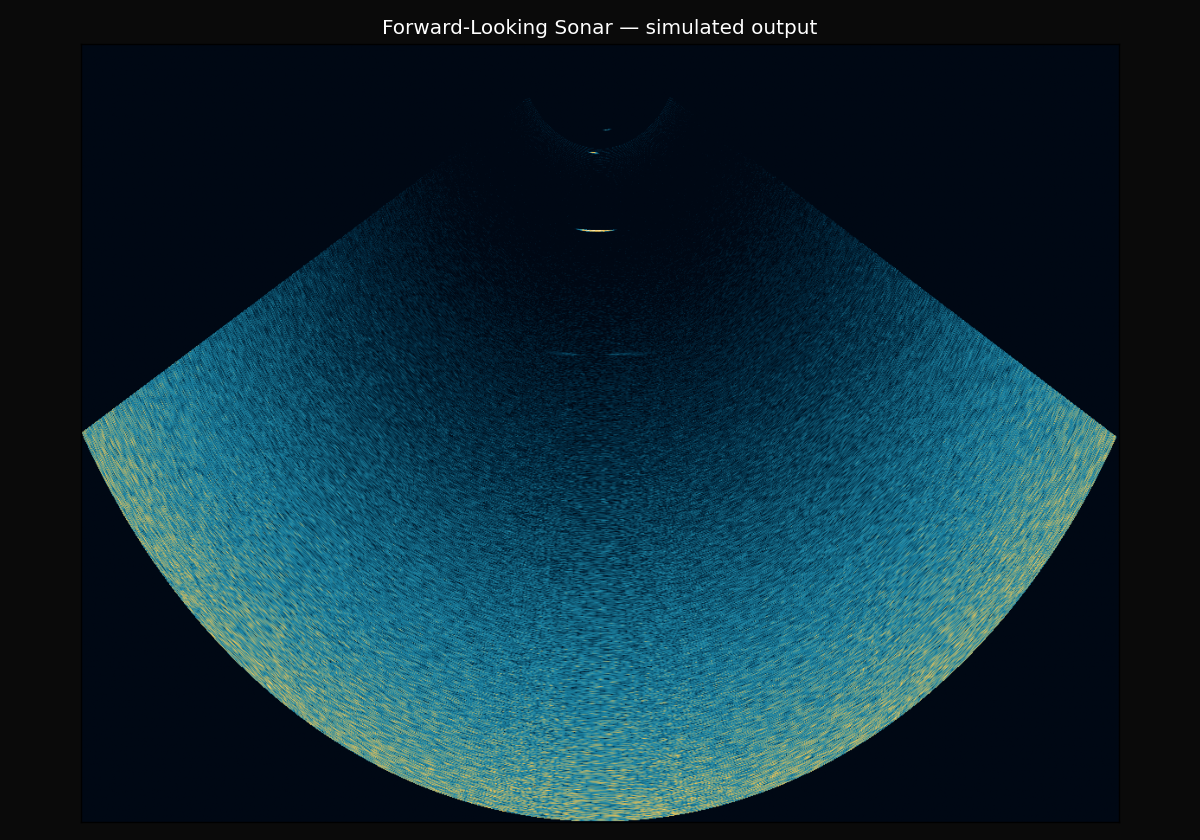
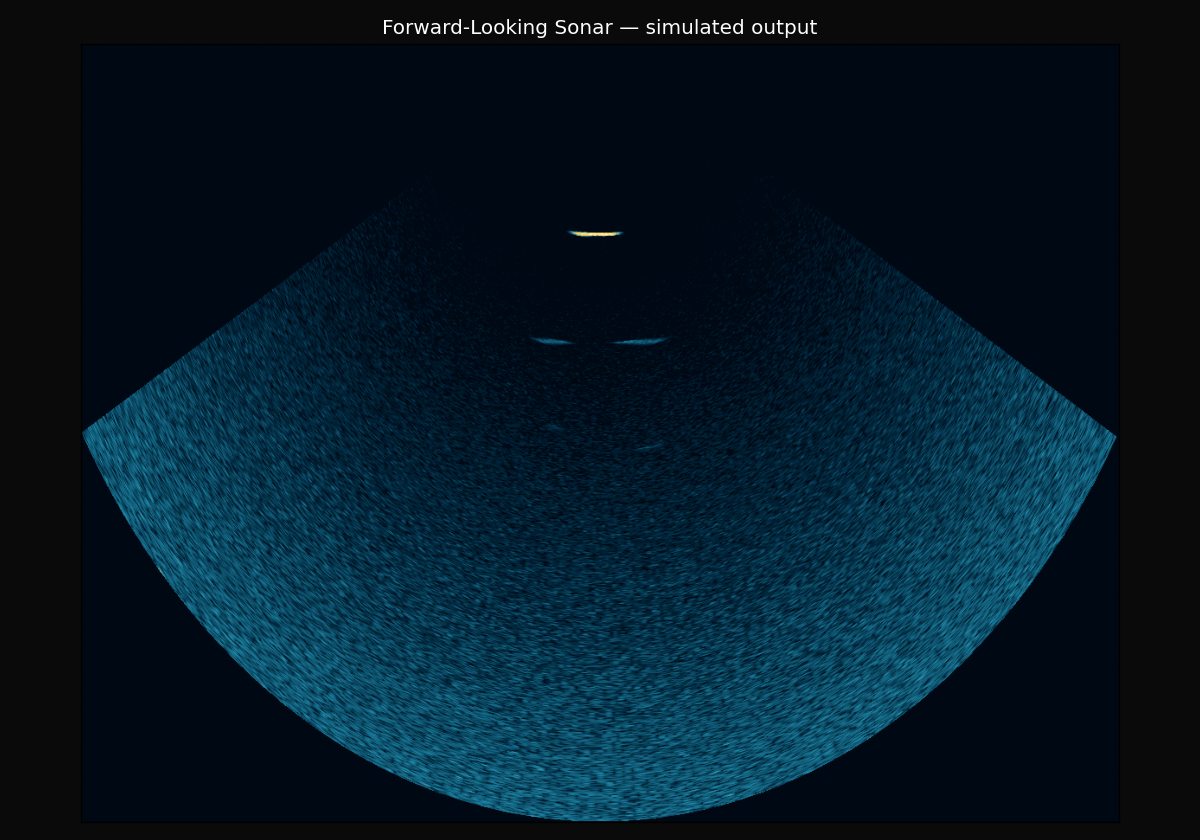
Keep 300 m range at 120 kHz
Reverts range_max_m to 300 m and num_range_bins to 1024 while keeping
the 120 kHz acoustic / pulse / beamwidth retune. Scene objects restored
to their original 30-265 m placements so the populated range matches.
README updated with the corresponding numbers (26 dB two-way absorption
at 300 m, 99 dB spreading). PNGs regenerated.

diff --git a/sonar_sim.py b/sonar_sim.py
@@ -45,22 +45,22 @@ from typing import Tuple, Optional, Callable
 class SonarConfig:
     """Configuration for a forward-looking imaging sonar.
 
-    Defaults are sized for a long-range FLS at 120 kHz targeting ~500 m,
-    in the spirit of long-range imaging / obstacle-avoidance sonars
-    (e.g. Kongsberg Mesotech 120 kHz family, Tritech SeaKing long-range).
-    Higher-frequency systems trade range for resolution: Tritech Gemini
-    720i (720 kHz, ~120 m), Sound Metrics ARIS (~1.8 MHz, ~30 m).
+    Defaults are sized for a 120 kHz FLS targeting ~300 m, in the spirit
+    of imaging / obstacle-avoidance sonars at this frequency band (e.g.
+    Kongsberg Mesotech 1071, Tritech SeaKing long-range). Higher-frequency
+    systems trade range for resolution: Tritech Gemini 720i (720 kHz,
+    ~120 m), Sound Metrics ARIS (~1.8 MHz, ~30 m).
     """
     # ---- Geometry ----
     range_min_m:     float = 1.0
-    range_max_m:     float = 500.0
-    num_range_bins:  int   = 2048     # → ~24 cm bin spacing, matches pulse cell
+    range_max_m:     float = 300.0
+    num_range_bins:  int   = 1024     # → ~29 cm bin spacing
     fov_h_deg:       float = 120.0    # horizontal sector width (azimuth)
     fov_v_deg:       float = 20.0     # vertical aperture (elevation)
     num_beams:       int   = 256      # azimuth bins displayed
 
     # ---- Acoustic / signal ----
-    freq_kHz:        float = 120.0    # 120 kHz: ~44 dB/km absorption, good to ~500 m
+    freq_kHz:        float = 120.0    # 120 kHz: ~44 dB/km absorption
     pulse_length_s:  float = 300e-6   # → 22.5 cm range cell at c=1500
     sound_speed:     float = 1500.0
 
@@ -303,55 +303,50 @@ class AnalyticalScene:
         self.objects = [
             # Small debris near field
             SceneObject('sphere',
-                        dict(centre=np.array([55.0,   6.0, -10.5]), radius=1.0),
+                        dict(centre=np.array([35.0,   4.0, -10.5]), radius=1.0),
                         dict(mu_diff=0.85, mu_spec=0.7, n_spec=12)),
             SceneObject('sphere',
-                        dict(centre=np.array([70.0,  -5.0, -10.8]), radius=0.8),
+                        dict(centre=np.array([42.0,  -3.0, -10.8]), radius=0.8),
                         dict(mu_diff=0.85, mu_spec=0.7, n_spec=12)),
 
-            # Wreck-like rectangular structure at ~125 m, sitting on seafloor,
-            # raised off floor. Strong return.
+            # Wreck-like rectangular structure at 75 m, sitting on seafloor,
+            # raised ~5 m off floor. Strong return.
             SceneObject('box',
-                        dict(centre=np.array([125.0, -3.0, -8.5]),
+                        dict(centre=np.array([78.0,  -2.0, -8.5]),
                              half=np.array([5.0, 9.0, 3.5])),
                         dict(mu_diff=0.95, mu_spec=0.9, n_spec=20)),
 
-            # Pipeline crossing the scene at ~200 m, 80 m long across azimuth
+            # Pipeline crossing the scene at ~115m, 60 m long across azimuth
             SceneObject('box',
-                        dict(centre=np.array([200.0, 0.0, -11.4]),
-                             half=np.array([0.8, 40.0, 0.8])),
+                        dict(centre=np.array([115.0, 0.0, -11.4]),
+                             half=np.array([0.6, 30.0, 0.6])),
                         dict(mu_diff=1.0, mu_spec=1.0, n_spec=8)),
 
-            # Boulder field at ~270 m
+            # Boulder field at 150 m
             SceneObject('sphere',
-                        dict(centre=np.array([255.0, -38.0, -10.5]), radius=3.0),
+                        dict(centre=np.array([150.0, -22.0, -10.5]), radius=2.5),
                         dict(mu_diff=0.85, mu_spec=0.6, n_spec=10)),
             SceneObject('sphere',
-                        dict(centre=np.array([270.0,  42.0, -10.0]), radius=3.5),
+                        dict(centre=np.array([158.0,  25.0, -10.0]), radius=3.0),
                         dict(mu_diff=0.85, mu_spec=0.6, n_spec=10)),
             SceneObject('sphere',
-                        dict(centre=np.array([280.0,  12.0, -10.6]), radius=2.0),
+                        dict(centre=np.array([165.0,   8.0, -10.6]), radius=1.6),
                         dict(mu_diff=0.85, mu_spec=0.6, n_spec=10)),
 
-            # Container-like long target at ~330 m, broadside-on
+            # Container-like long target at 195 m, broadside-on
             SceneObject('box',
-                        dict(centre=np.array([330.0,  18.0, -9.5]),
+                        dict(centre=np.array([195.0,  10.0, -9.5]),
                              half=np.array([6.0, 1.2, 2.5])),
                         dict(mu_diff=0.9, mu_spec=0.8, n_spec=18)),
 
-            # Distant cluster at ~430 m
+            # Distant cluster at edge of operating range
             SceneObject('sphere',
-                        dict(centre=np.array([425.0, -55.0, -9.0]), radius=5.0),
+                        dict(centre=np.array([255.0, -35.0, -9.0]), radius=4.5),
                         dict(mu_diff=0.85, mu_spec=0.6, n_spec=8)),
             SceneObject('box',
-                        dict(centre=np.array([440.0,  65.0, -9.5]),
-                             half=np.array([4.0, 7.0, 3.0])),
+                        dict(centre=np.array([265.0,  40.0, -9.5]),
+                             half=np.array([3.5, 6.0, 2.5])),
                         dict(mu_diff=0.9, mu_spec=0.8, n_spec=14)),
-
-            # Far edge of operating range (~480 m)
-            SceneObject('sphere',
-                        dict(centre=np.array([480.0,   0.0, -9.0]), radius=4.0),
-                        dict(mu_diff=0.85, mu_spec=0.6, n_spec=8)),
         ]
 
     def trace(self, origin: np.ndarray, dirs: np.ndarray

diff --git a/demo_synthetic.py b/demo_synthetic.py
@@ -21,8 +21,8 @@ sonar_cmap = LinearSegmentedColormap.from_list(
 def main():
     cfg = SonarConfig()
     cfg.freq_kHz = 120.0
-    cfg.range_max_m = 500.0
-    cfg.num_range_bins = 2048
+    cfg.range_max_m = 300.0
+    cfg.num_range_bins = 1024
     cfg.num_beams = 256
     cfg.fov_h_deg = 120.0
     cfg.fov_v_deg = 20.0

diff --git a/README.md b/README.md
@@ -1,6 +1,6 @@
 # Forward-Looking Imaging Sonar simulator
 
-A physics-driven Python prototype of a forward-looking imaging sonar (FLS) — the kind of sensor that produces a polar fan image. Defaults are sized for a long-range 120 kHz system (e.g. Kongsberg Mesotech 1071, Tritech SeaKing long-range) reaching ~500 m, but the same pipeline applies at higher frequencies for shorter-range / higher-resolution systems like Tritech Gemini, Sound Metrics ARIS, or BlueView. Aimed at accuracy over realtime, with a clear path to plug into your Unreal Engine pipeline.
+A physics-driven Python prototype of a forward-looking imaging sonar (FLS) — the kind of sensor that produces a polar fan image. Defaults are sized for a 120 kHz system (e.g. Kongsberg Mesotech 1071, Tritech SeaKing long-range) targeting ~300 m, but the same pipeline applies at higher frequencies for shorter-range / higher-resolution systems like Tritech Gemini, Sound Metrics ARIS, or BlueView. Aimed at accuracy over realtime, with a clear path to plug into your Unreal Engine pipeline.
 
 ## Files
 
@@ -29,7 +29,7 @@ Here's the gap, in roughly the order it matters for "looking right":
 
 **4. Speckle, not Gaussian noise.** The grainy texture of a sonar image is *coherent speckle* — a multiplicative random process with a Gamma/Rayleigh distribution, not additive Gaussian noise. You see it because each resolution cell is the coherent sum of many scatterers with random phase. If you add Gaussian noise on top of a clean depth image you get a noisy depth image, not a sonar image.
 
-**5. Two-way transmission loss.** Sound at 120 kHz attenuates ~44 dB/km in seawater (Francois–Garrison formula), plus geometric spreading. So 500 m is ~44 dB of two-way absorption *plus* `40 log₁₀(500) ≈ 108 dB` of point-target spreading — operators counter this with TVG (time-varied gain). You need both pieces, otherwise far-range looks wrong. (Going to 400 kHz roughly triples the absorption rate, which is why high-frequency systems are short-range.)
+**5. Two-way transmission loss.** Sound at 120 kHz attenuates ~44 dB/km in seawater (Francois–Garrison formula), plus geometric spreading. So 300 m is ~26 dB of two-way absorption *plus* `40 log₁₀(300) ≈ 99 dB` of point-target spreading — operators counter this with TVG (time-varied gain). You need both pieces, otherwise far-range looks wrong. (Going to 400 kHz roughly triples the absorption rate, which is why high-frequency systems are short-range.)
 
 **6. Beam pattern.** Each beam isn't a knife-edge — it has a main lobe (Gaussian-ish, ~3° wide at 120 kHz for typical apertures) and sidelobes (`sinc²`). Bright targets bleed into adjacent beams. Skipping this makes objects look unnaturally crisp.
 
